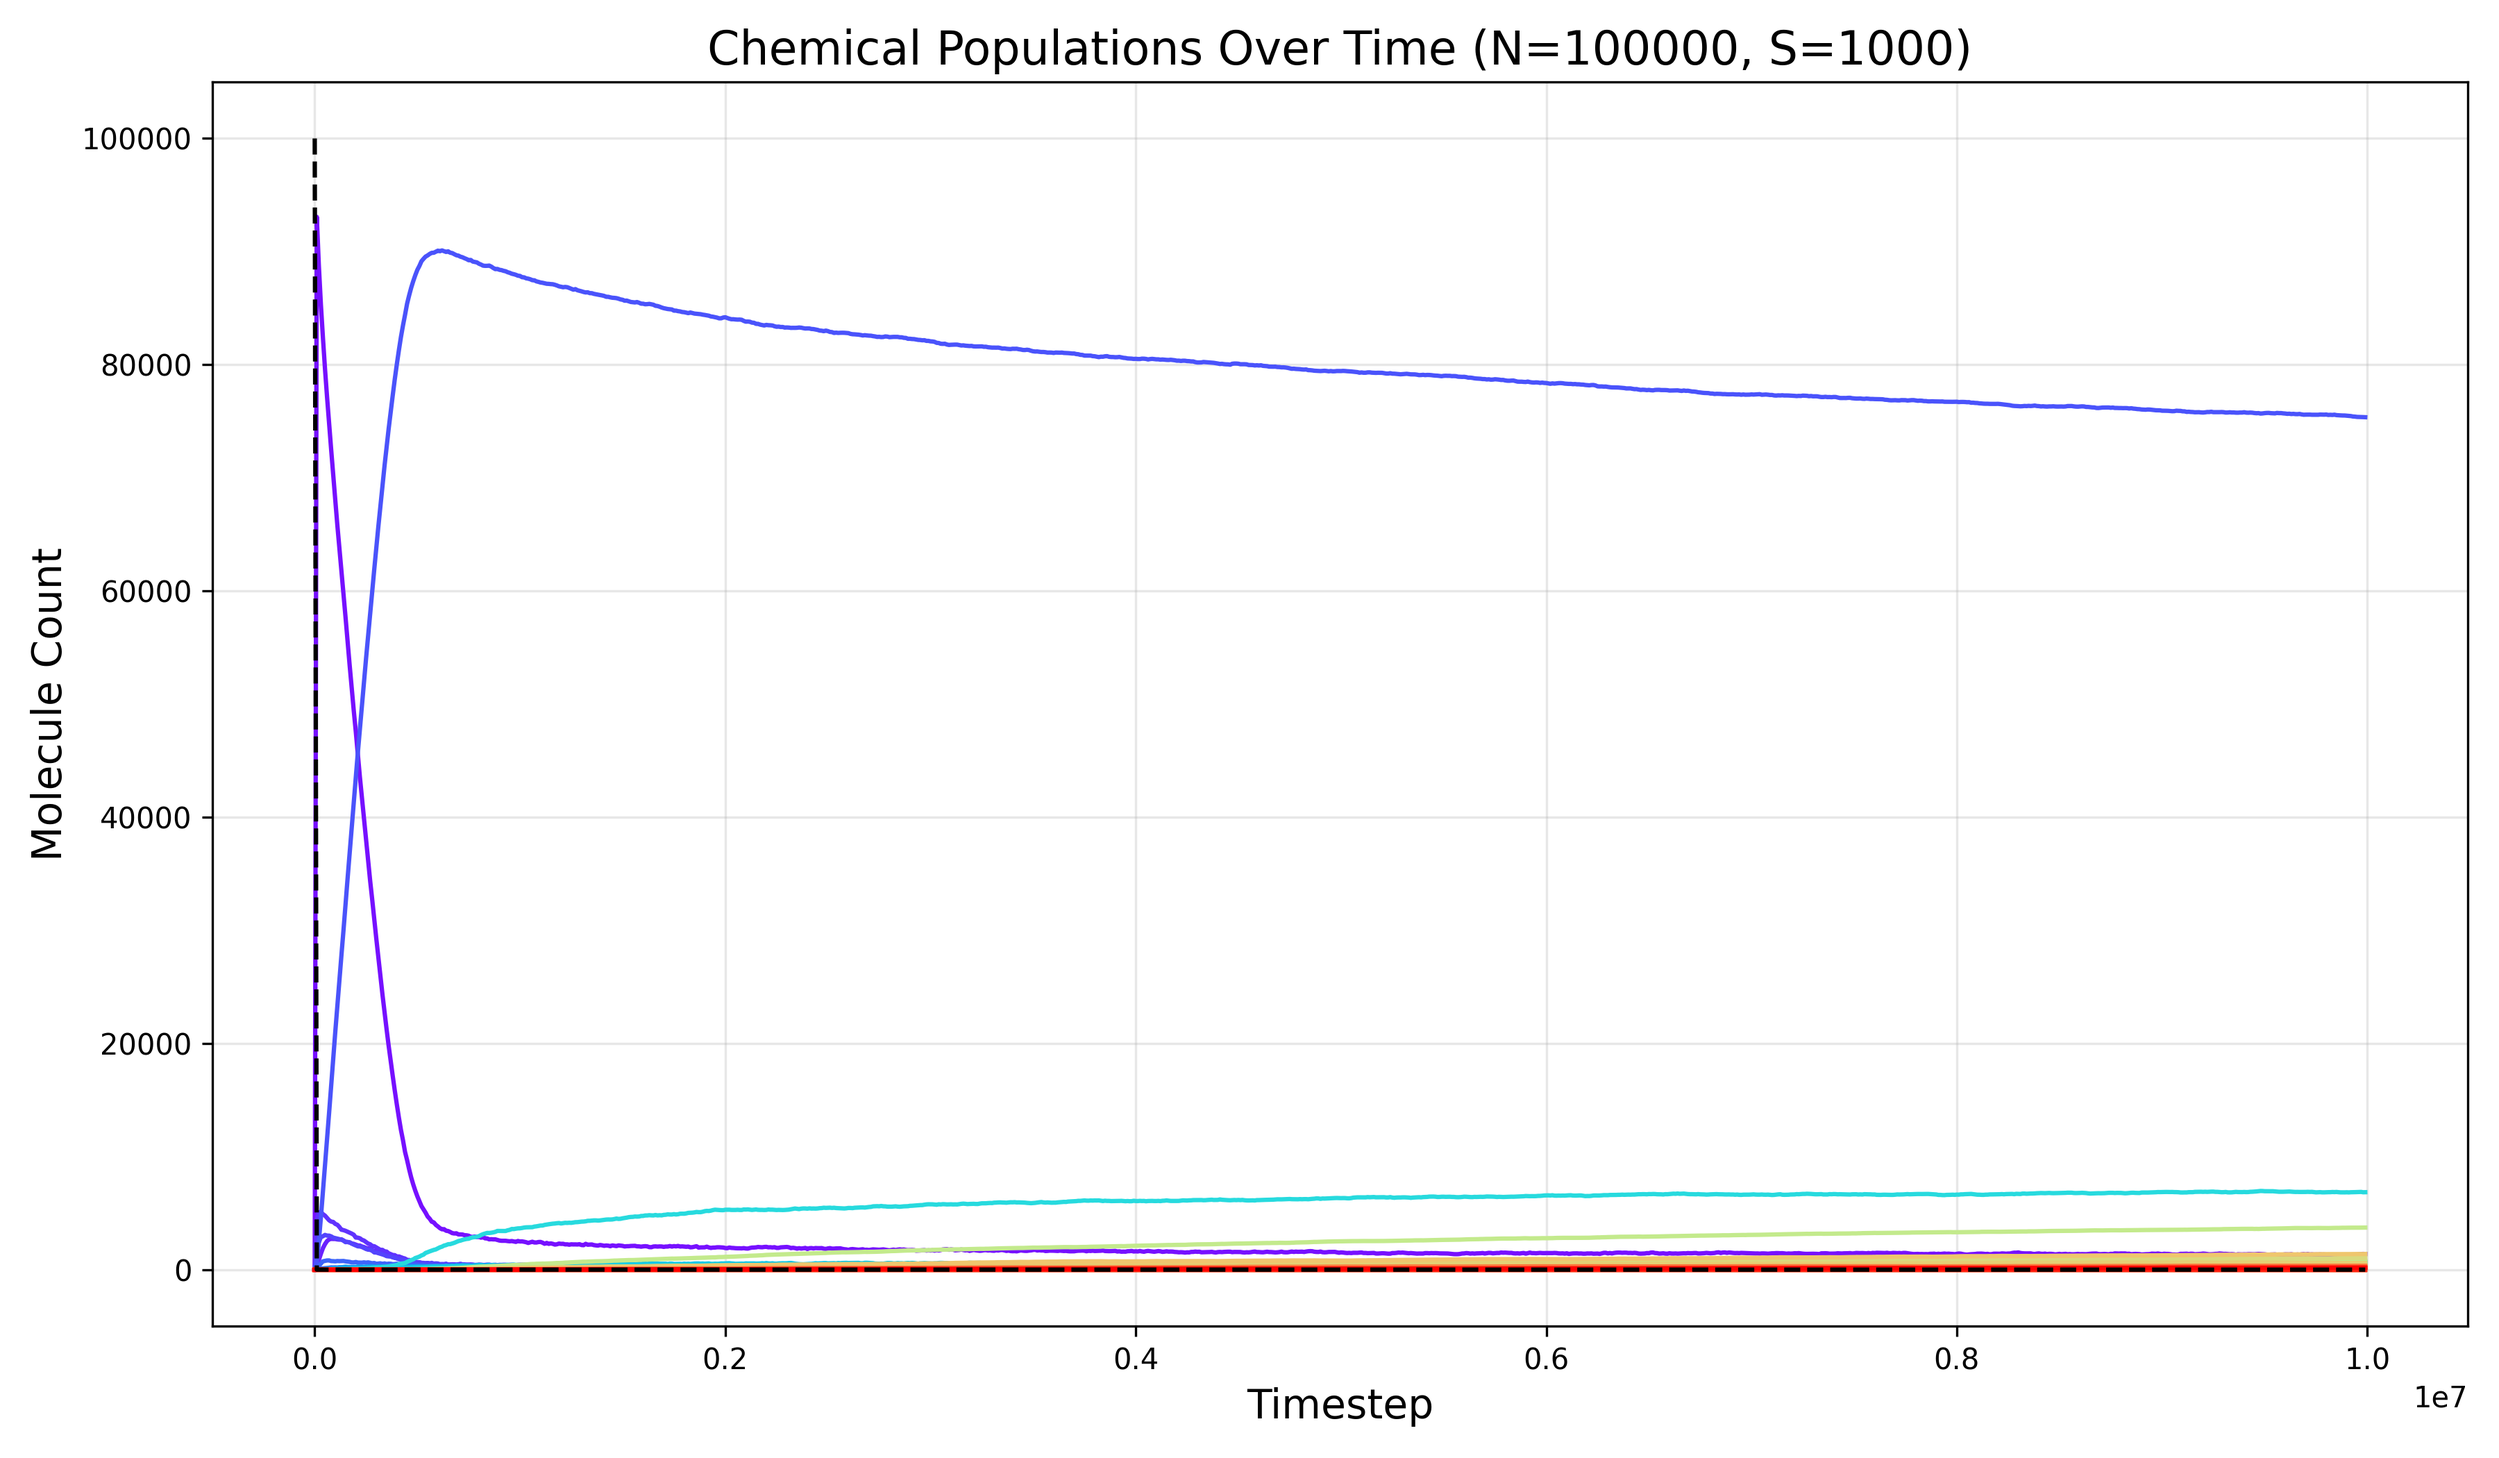
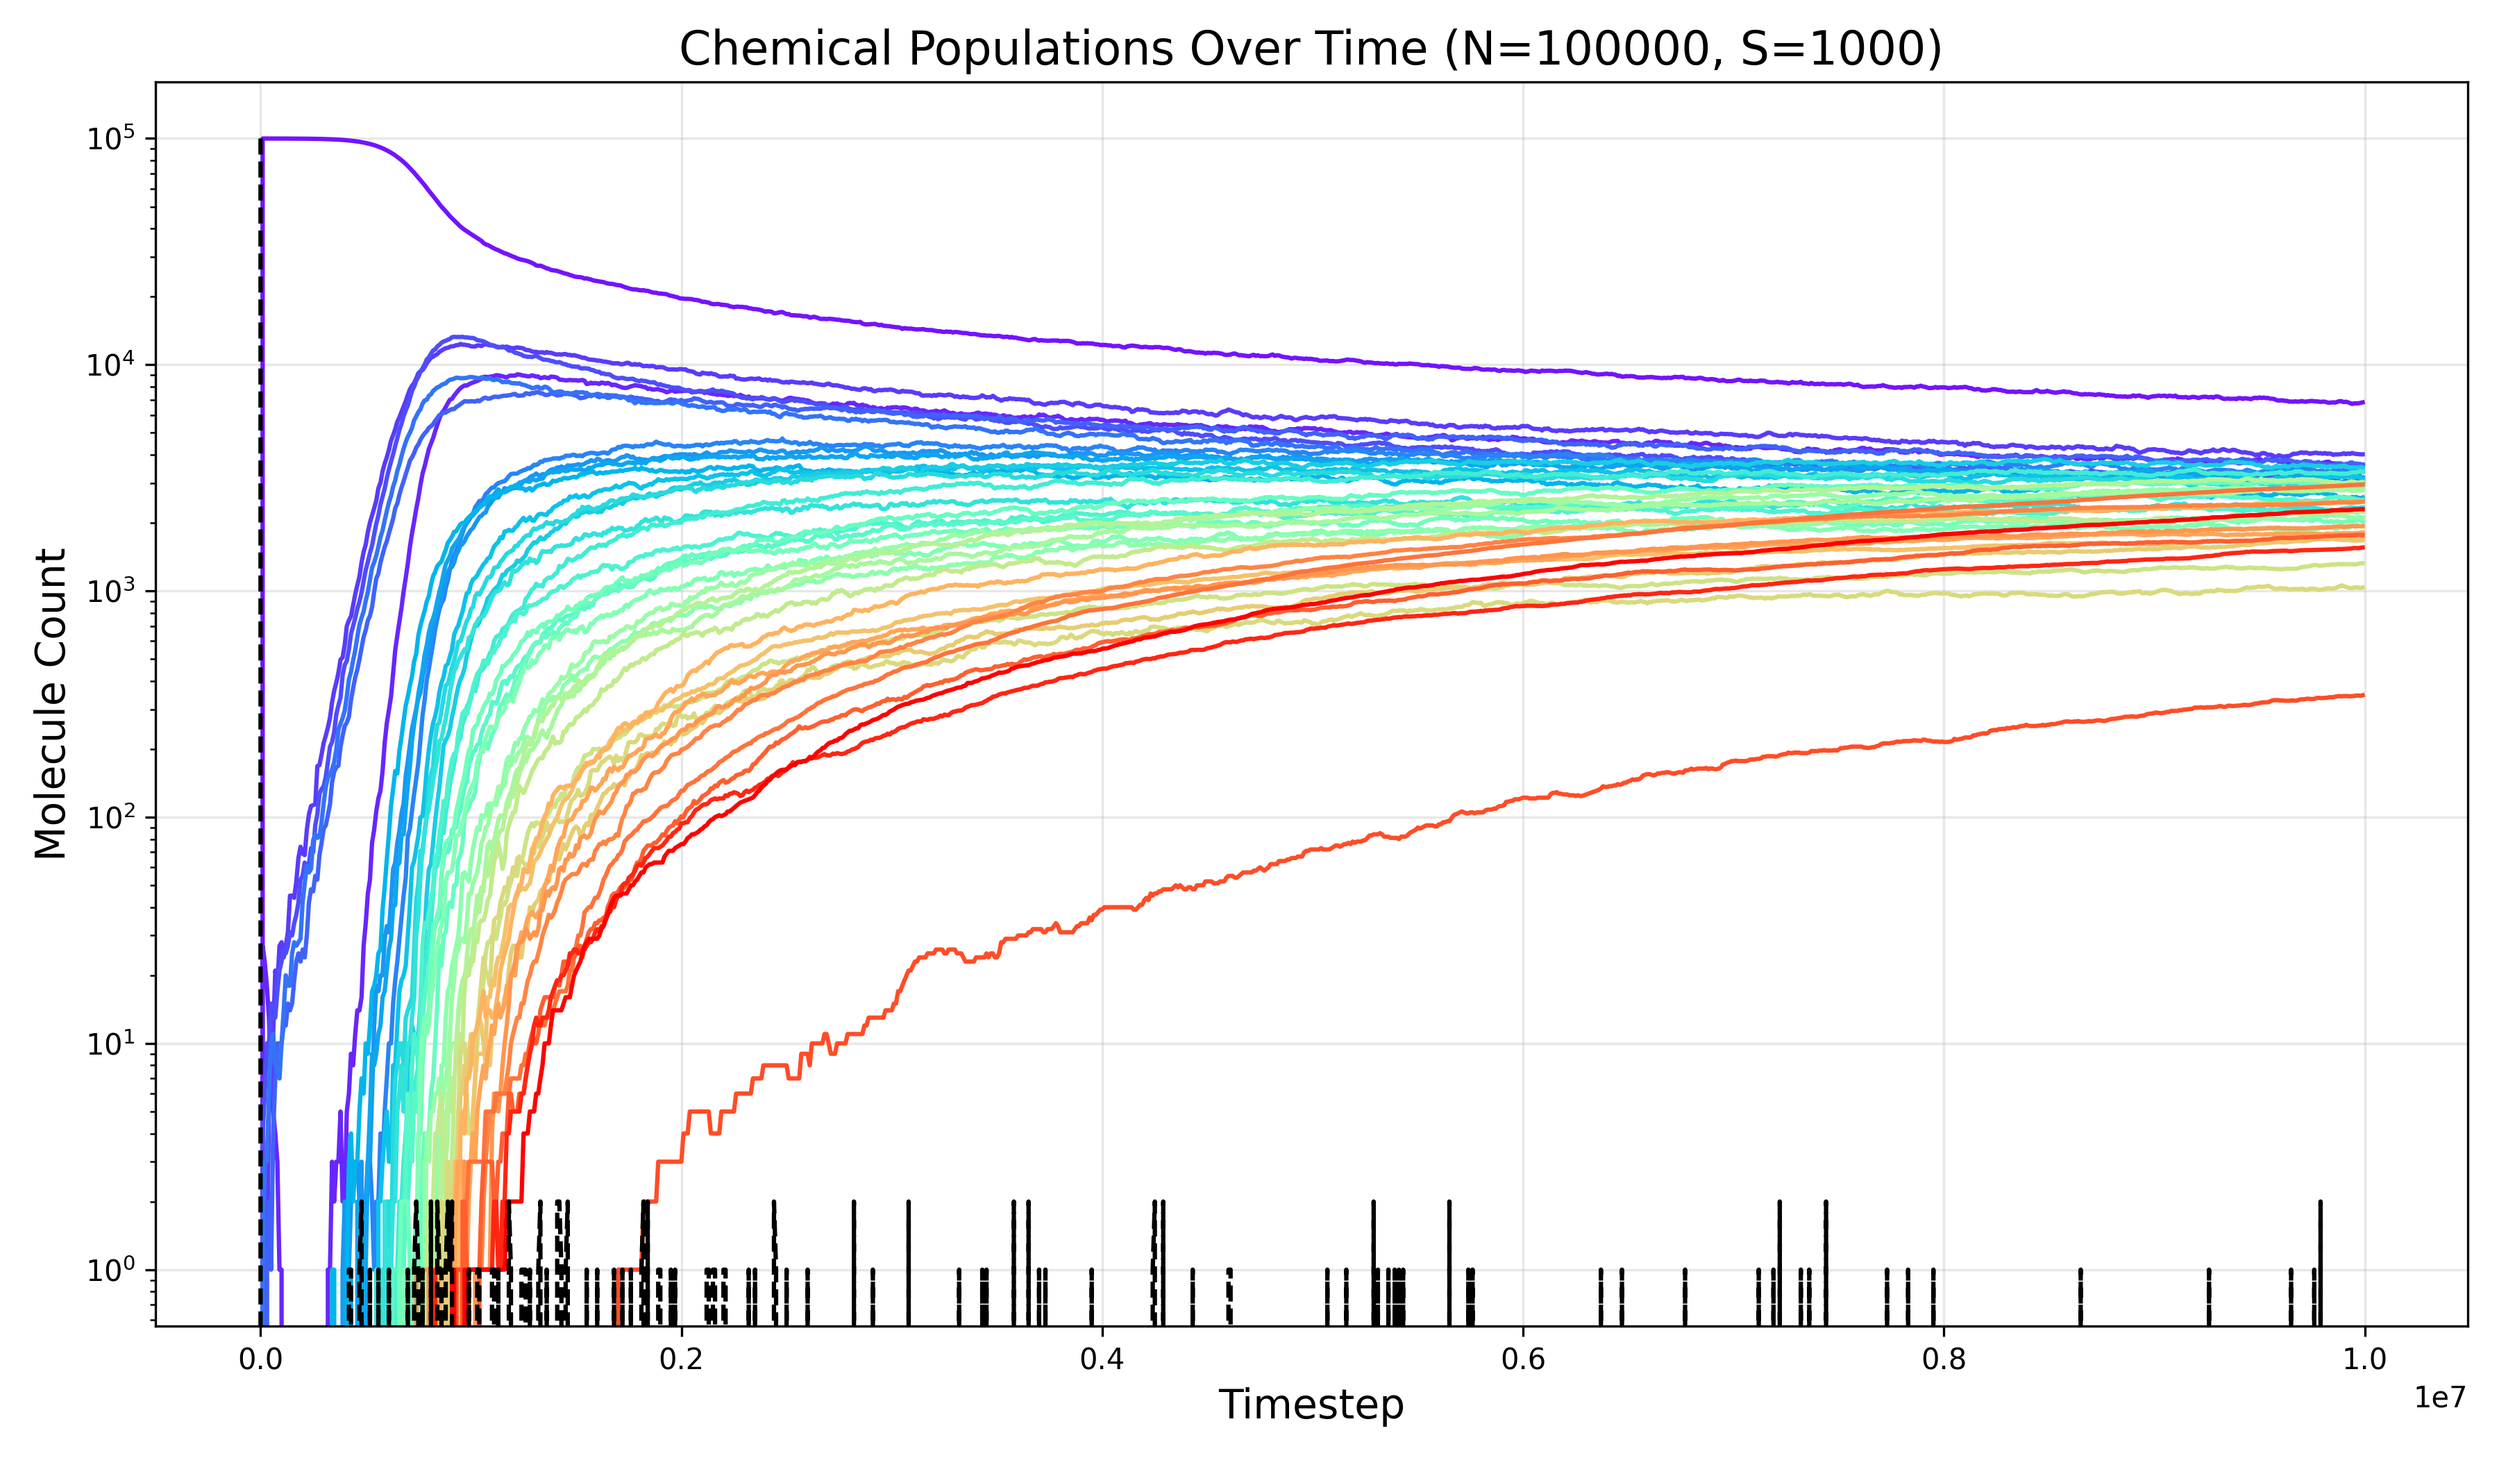
Misc changes and visualization

diff --git a/src/noSinkglobalNewRule/vizPopulationTimeseries.py b/src/noSinkglobalNewRule/vizPopulationTimeseries.py
@@ -1,0 +1,87 @@
+import numpy as np
+import matplotlib.pyplot as plt
+import matplotlib.cm as cm
+from pathlib import Path
+
+def main(L, D):
+    # Get script directory
+    script_dir = Path(__file__).parent
+    
+    # Load data from outputs in script directory
+    data_dir = script_dir / "outputs" / "latticeTimeseries" / f"L_{L}_D_{D}"
+    
+    # Find all lattice files
+    lattice_files = list(data_dir.glob("lattice_*.txt"))
+    
+    # Collect data: list of (timestep, global_counts)
+    data_list = []
+    for file_path in lattice_files:
+        # Extract timestep from filename (e.g., lattice_1000.txt -> 1000)
+        t = int(file_path.stem.split('_')[1])
+        
+        # Read and parse lattice file
+        with open(file_path, 'r') as f:
+            lines = f.readlines()
+        
+        # Initialize sum_counts for chemicals 0 to 100
+        sum_counts = np.zeros(101, dtype=int)  # 0 to 100
+        
+        for line in lines:
+            sites = line.strip().split('\t')
+            for site_str in sites:
+                if site_str.strip():  # Skip empty
+                    counts = [int(x) for x in site_str.split()]
+                    for c in range(len(counts)):
+                        sum_counts[c] += counts[c]
+        
+        data_list.append((t, sum_counts))
+    
+    # Sort by timestep
+    data_list.sort(key=lambda x: x[0])
+    
+    # Extract steps and counts
+    steps = np.array([item[0] for item in data_list])
+    counts = np.array([item[1] for item in data_list])
+    
+    # counts[:, 0] is empty, counts[:, 1:] are chemicals 1 to 100
+    n_chemicals = counts.shape[1] - 1  # Exclude empty (chemical 0)
+    
+    # Find the highest chemical index with non-zero counts
+    max_chemical_index = 0
+    for c in range(1, n_chemicals + 1):
+        if np.max(counts[:, c]) > 0:
+            max_chemical_index = c
+    
+    # Create figure
+    fig, ax = plt.subplots(figsize=(12, 7))
+    
+    # Rainbow colormap: red for heavy, blue/violet for light, up to max_chemical_index
+    colors = cm.rainbow(np.linspace(0, 1, max_chemical_index + 1))
+    
+    # Plot each chemical up to max_chemical_index
+    for c in range(1, max_chemical_index + 1):
+        ax.plot(steps, counts[:, c], label=f'Chemical {c}', color=colors[c], linewidth=1.5)
+    
+    # Plot empty separately with black
+    ax.plot(steps, counts[:, 0], label='Empty (0)', color='black', linewidth=1.5, linestyle='--')
+    
+    ax.set_xlabel('Timestep', fontsize=14)
+    ax.set_ylabel('Molecule Count', fontsize=14)
+    ax.set_yscale('log')
+    ax.set_title(f'Chemical Populations Over Time (L={L}, D={D})', fontsize=16)
+    ax.grid(True, alpha=0.3)
+    
+    # Save figure to plots in script directory
+    output_dir = script_dir / "plots" / "latticeTimeseries"
+    output_dir.mkdir(parents=True, exist_ok=True)
+    output_file = output_dir / f"populations_L_{L}_D_{D}.png"
+    plt.tight_layout()
+    plt.savefig(output_file, dpi=300)
+    print(f"Plot saved to {output_file}")
+    plt.close()
+
+if __name__ == "__main__":
+    L = 25  # Lattice size
+    D = 5   # Diffusion coefficient
+
+    main(L, D)

diff --git a/src/meanFieldNoSink/populationTimeseries.cpp b/src/meanFieldNoSink/populationTimeseries.cpp
@@ -9,9 +9,9 @@
 
 constexpr int N_CHEMICALS = 100;  // Number of different chemicals (excluding empty=0)
 constexpr int TOTAL_MOLECULES = 100000;  // Total molecules
-constexpr int N_STEPS = 10000000;  // Number of timesteps
+constexpr int N_STEPS = 100000000;  // Number of timesteps
 constexpr int MAX_RULES = 1000;  // Maximum number of rules
-constexpr int SUPPLY_RATE = 1000;  // Molecules supplied per timestep
+constexpr int SUPPLY_RATE = 10;  // Molecules supplied per timestep
 
 constexpr int RECORDING_INTERVAL = N_STEPS / 1000; // Interval for recording state
 
@@ -158,7 +158,8 @@ int main() {
     std::vector<float> volatility(N_CHEMICALS + 1);
     std::uniform_real_distribution<> dis(0.0, 1.0);
     for (int c = 0; c <= N_CHEMICALS; ++c) {
-        volatility[c] = dis(gen);
+        // volatility[c] = dis(gen);
+        volatility[c] = 1.0f;
     }
     
     // Initialize rules
@@ -210,7 +211,7 @@ int main() {
     
     for (int t = 1; t < N_STEPS; ++t) {
         update(counts, rules, n_rules, volatility, gen, t, counts_file, rules_file);
-        if (t % 100000 == 0) {
+        if (t % 1000 == 0) {
             std::cout << "Progress:" << (t * 100) / N_STEPS << "%\r";
         }
     }

diff --git a/src/meanFieldNoSink/vizPopulationTimeseries.py b/src/meanFieldNoSink/vizPopulationTimeseries.py
@@ -52,7 +52,7 @@ def main(N, S):
     
     ax.set_xlabel('Timestep', fontsize=14)
     ax.set_ylabel('Molecule Count', fontsize=14)
-    # ax.set_yscale('log')
+    ax.set_yscale('log')
     ax.set_title(f'Chemical Populations Over Time (N={N}, S={S})', fontsize=16)
     ax.grid(True, alpha=0.3)
     
